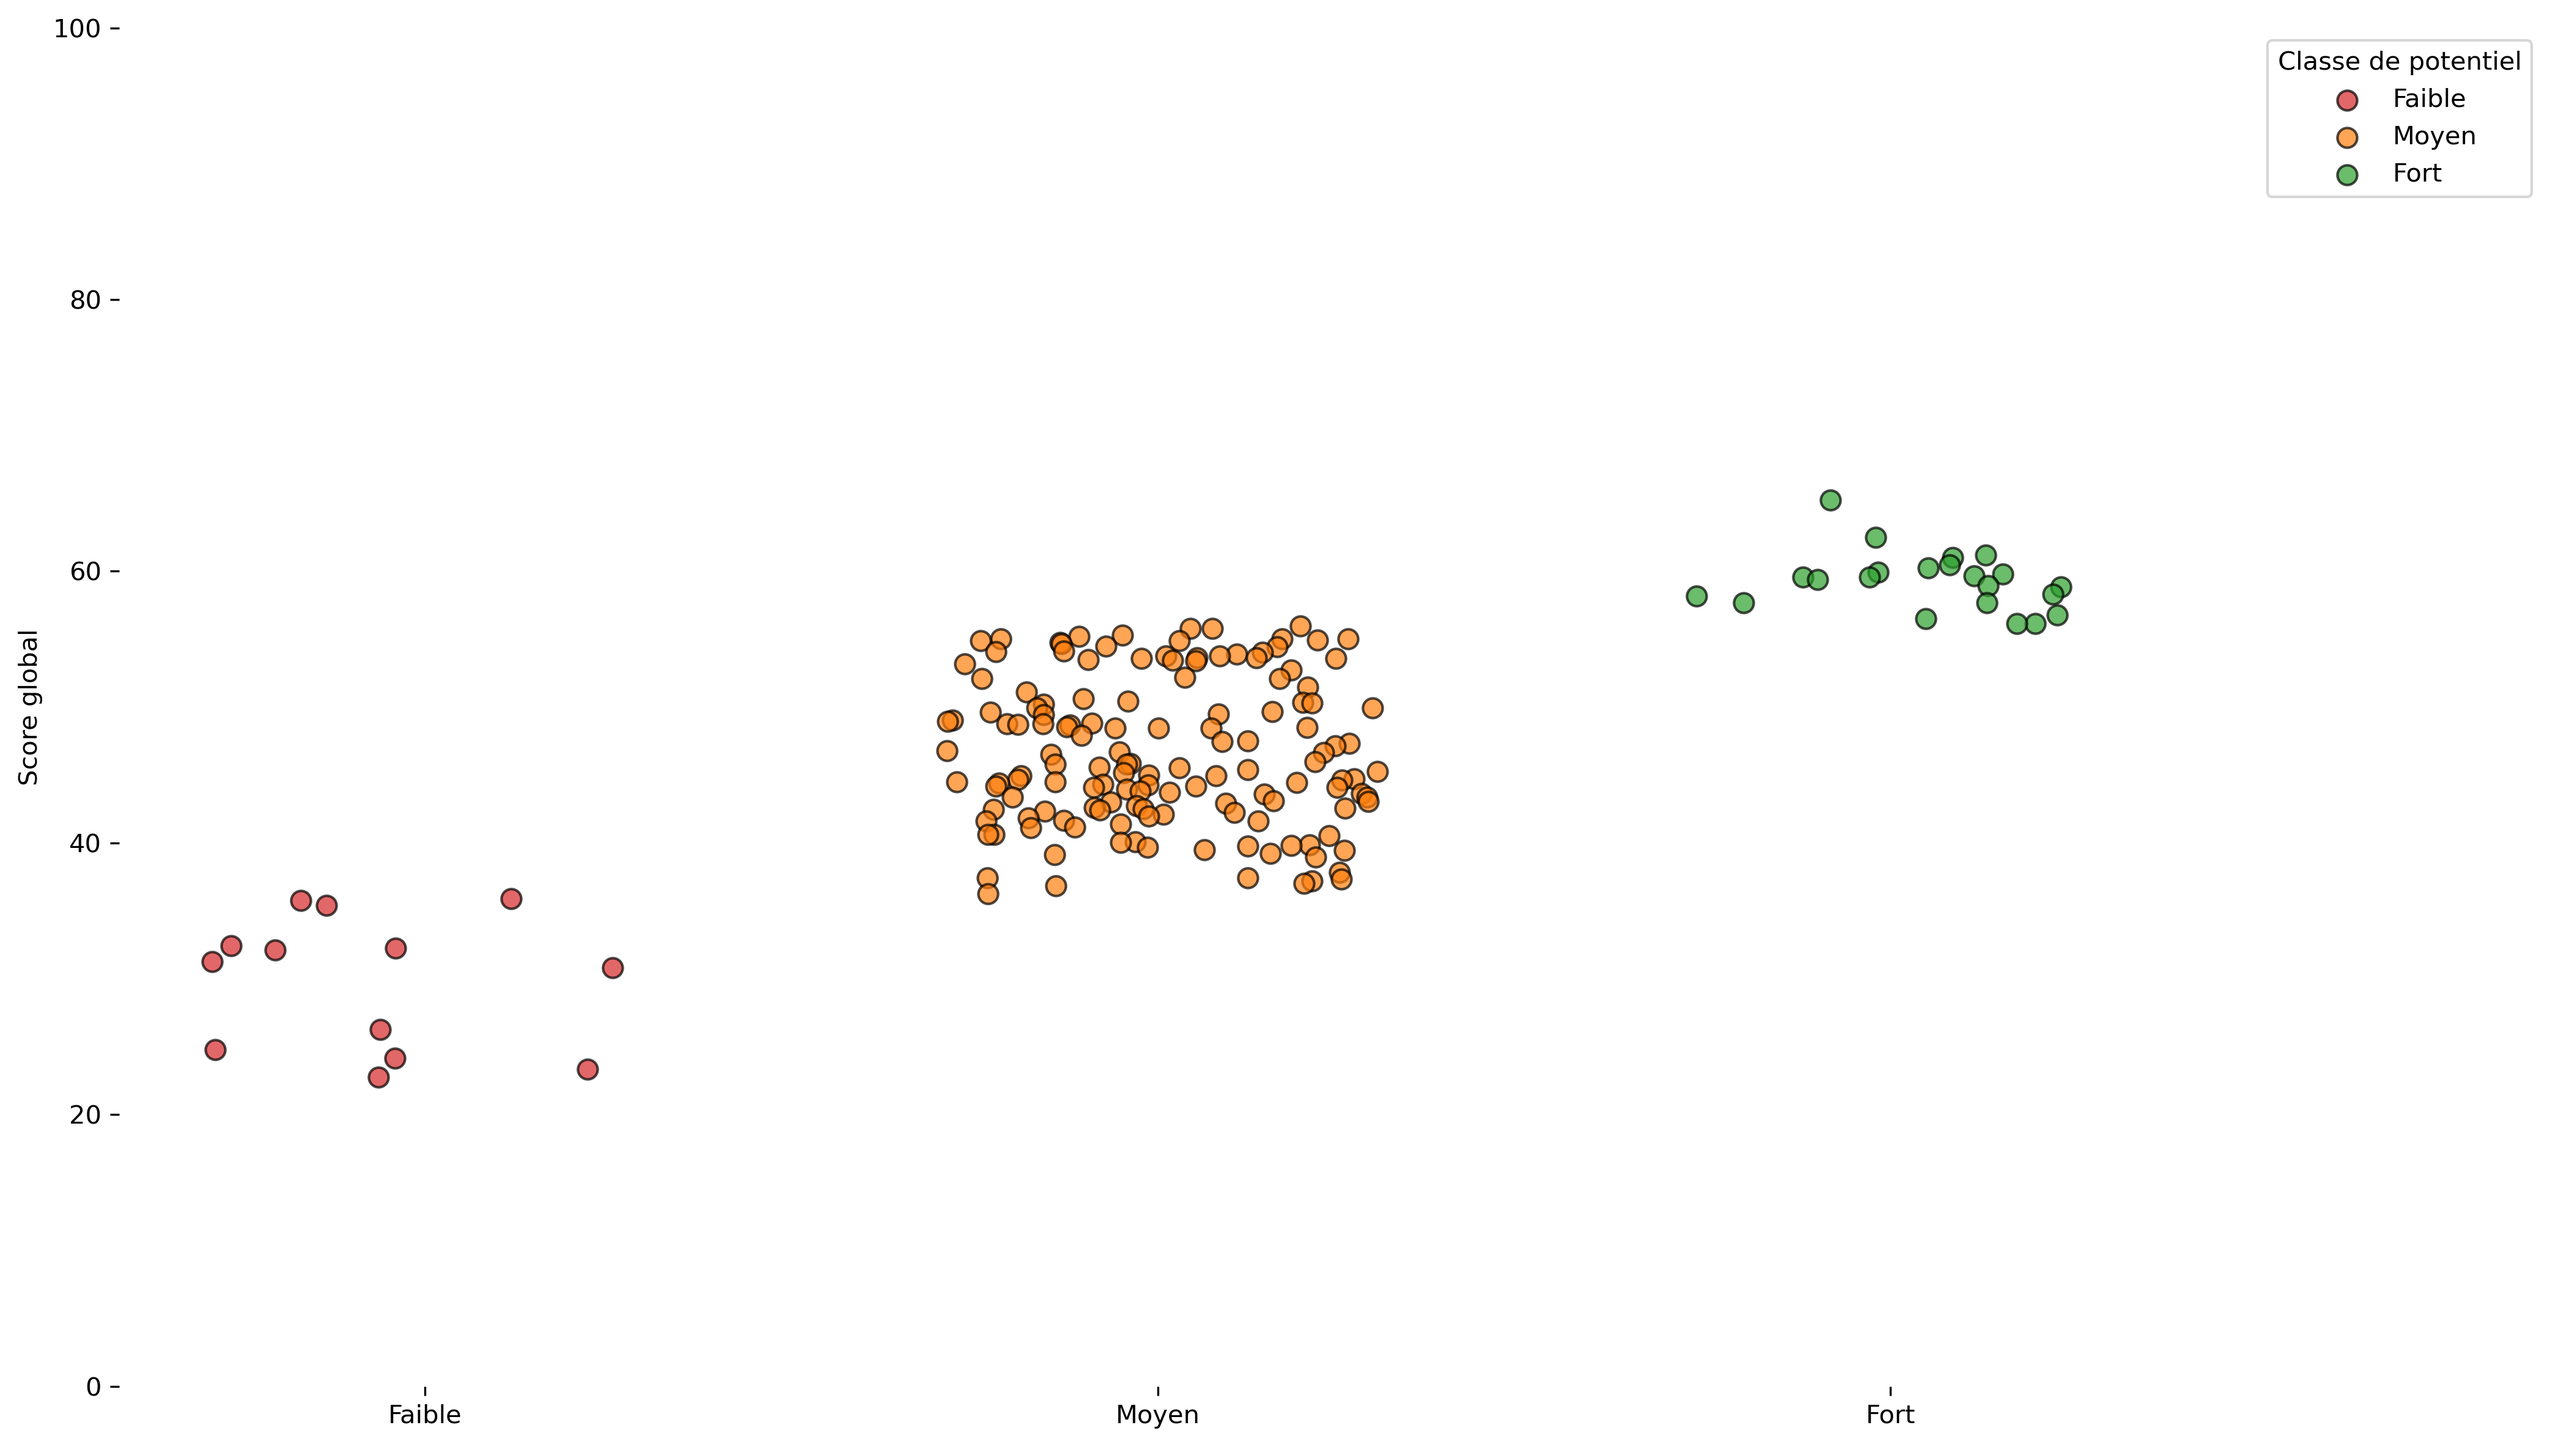
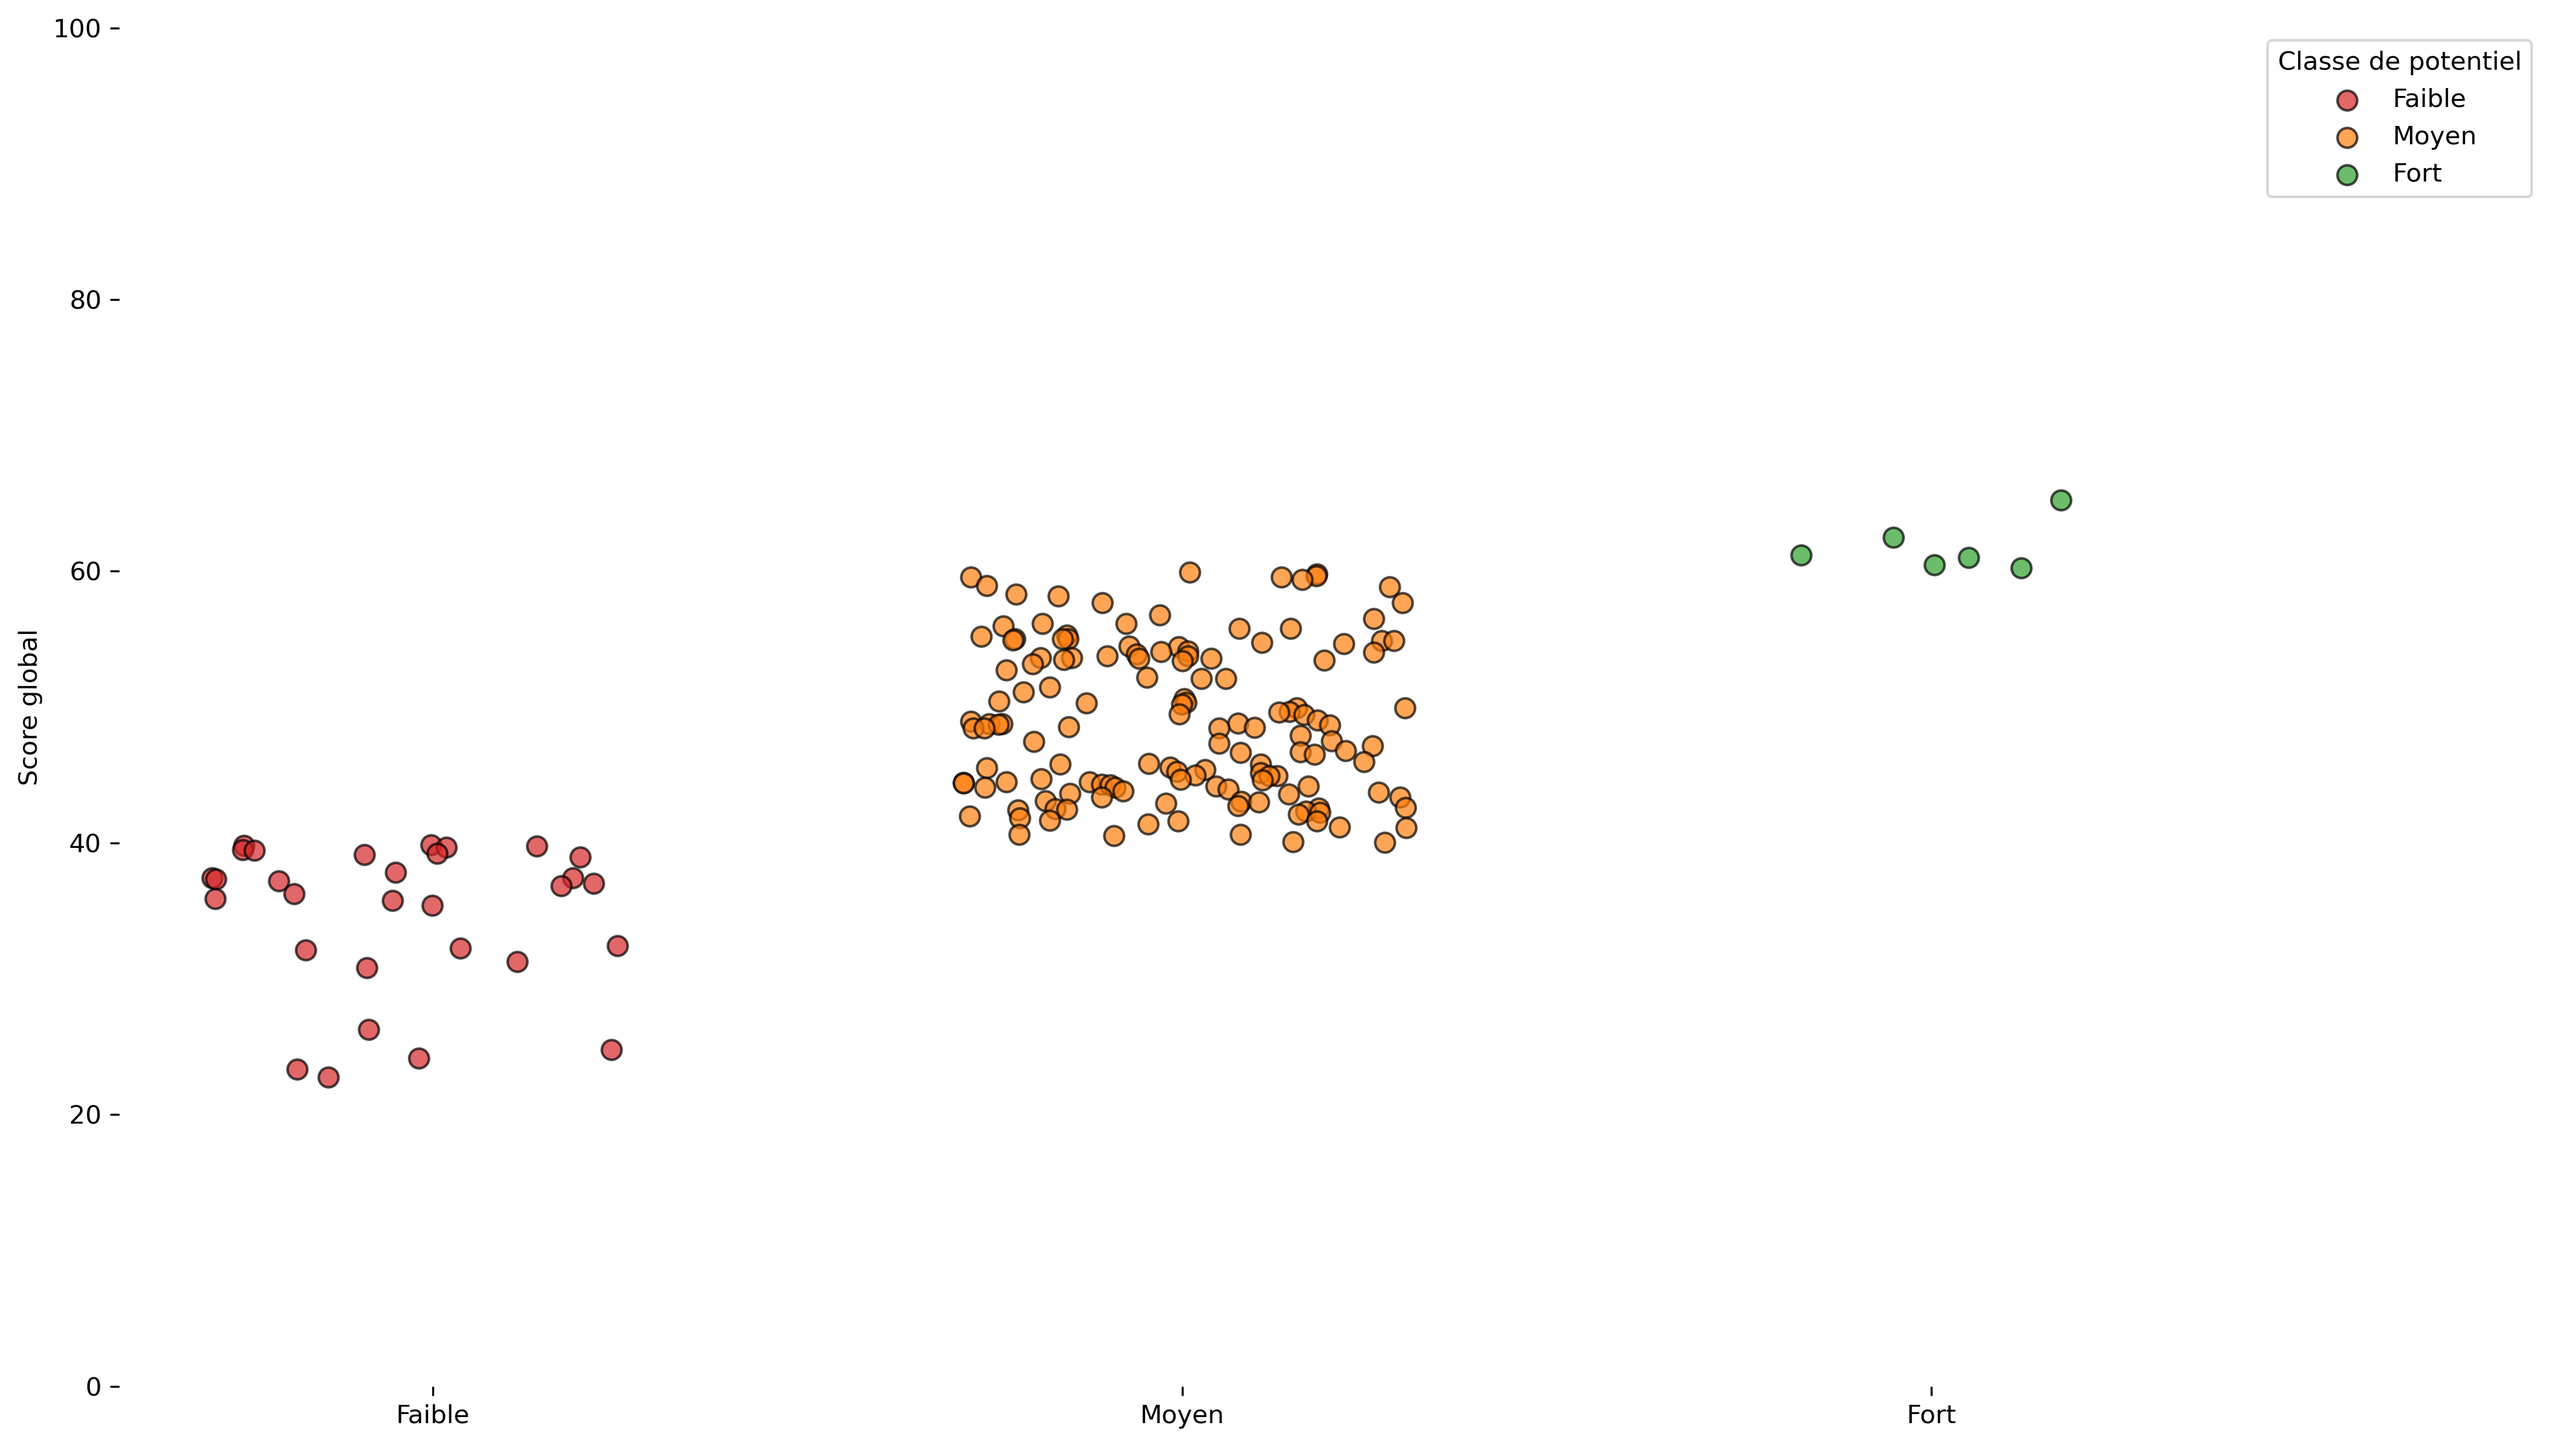
Mise à jour de l'affichagedes recommanndations et insights clés du nuage de points  15/09/2025 v002

diff --git a/src/pages/recruiter/RecruiterDashboard.tsx b/src/pages/recruiter/RecruiterDashboard.tsx
@@ -864,21 +864,21 @@ export default function RecruiterDashboard() {
                           <div className="w-2 h-2 rounded-full bg-red-400 mt-2 flex-shrink-0"></div>
                           <div className="min-w-0">
                             <p className="font-medium text-sm">Potentiel Faible</p>
-                            <p className="text-xs text-muted-foreground">5 candidats avec scores 0-35</p>
+                            <p className="text-xs text-muted-foreground">25-30 candidats avec scores 0-39</p>
                           </div>
                         </div>
                         <div className="flex items-start gap-3">
                           <div className="w-2 h-2 rounded-full bg-orange-400 mt-2 flex-shrink-0"></div>
                           <div className="min-w-0">
                             <p className="font-medium text-sm">Potentiel Moyen</p>
-                            <p className="text-xs text-muted-foreground">70-80 candidats concentrés autour de 40-45</p>
+                            <p className="text-xs text-muted-foreground">100+ candidats concentrés autour de 40-59</p>
                           </div>
                         </div>
                         <div className="flex items-start gap-3">
                           <div className="w-2 h-2 rounded-full bg-green-400 mt-2 flex-shrink-0"></div>
                           <div className="min-w-0">
                             <p className="font-medium text-sm">Potentiel Fort</p>
-                            <p className="text-xs text-muted-foreground">60-70 candidats avec scores 56-70</p>
+                            <p className="text-xs text-muted-foreground">6 candidats avec scores 60-80</p>
                           </div>
                         </div>
                       </CardContent>
@@ -897,7 +897,7 @@ export default function RecruiterDashboard() {
                                 Focus sur les candidats Forts
                               </p>
                               <p className="text-xs text-blue-700 dark:text-blue-300 mt-1 leading-relaxed">
-                                Prioriser les candidats avec potentiel fort pour les postes critiques
+                                Prioriser les candidats avec potentiel fort (60-80) pour les postes critiques
                               </p>
                             </div>
                           </div>
@@ -910,7 +910,7 @@ export default function RecruiterDashboard() {
                                 Formation des candidats Moyens
                               </p>
                               <p className="text-xs text-orange-700 dark:text-orange-300 mt-1 leading-relaxed">
-                                Développer des programmes de formation pour les candidats moyens
+                                Développer des programmes de formation pour les candidats moyens (40-59)
                               </p>
                             </div>
                           </div>
